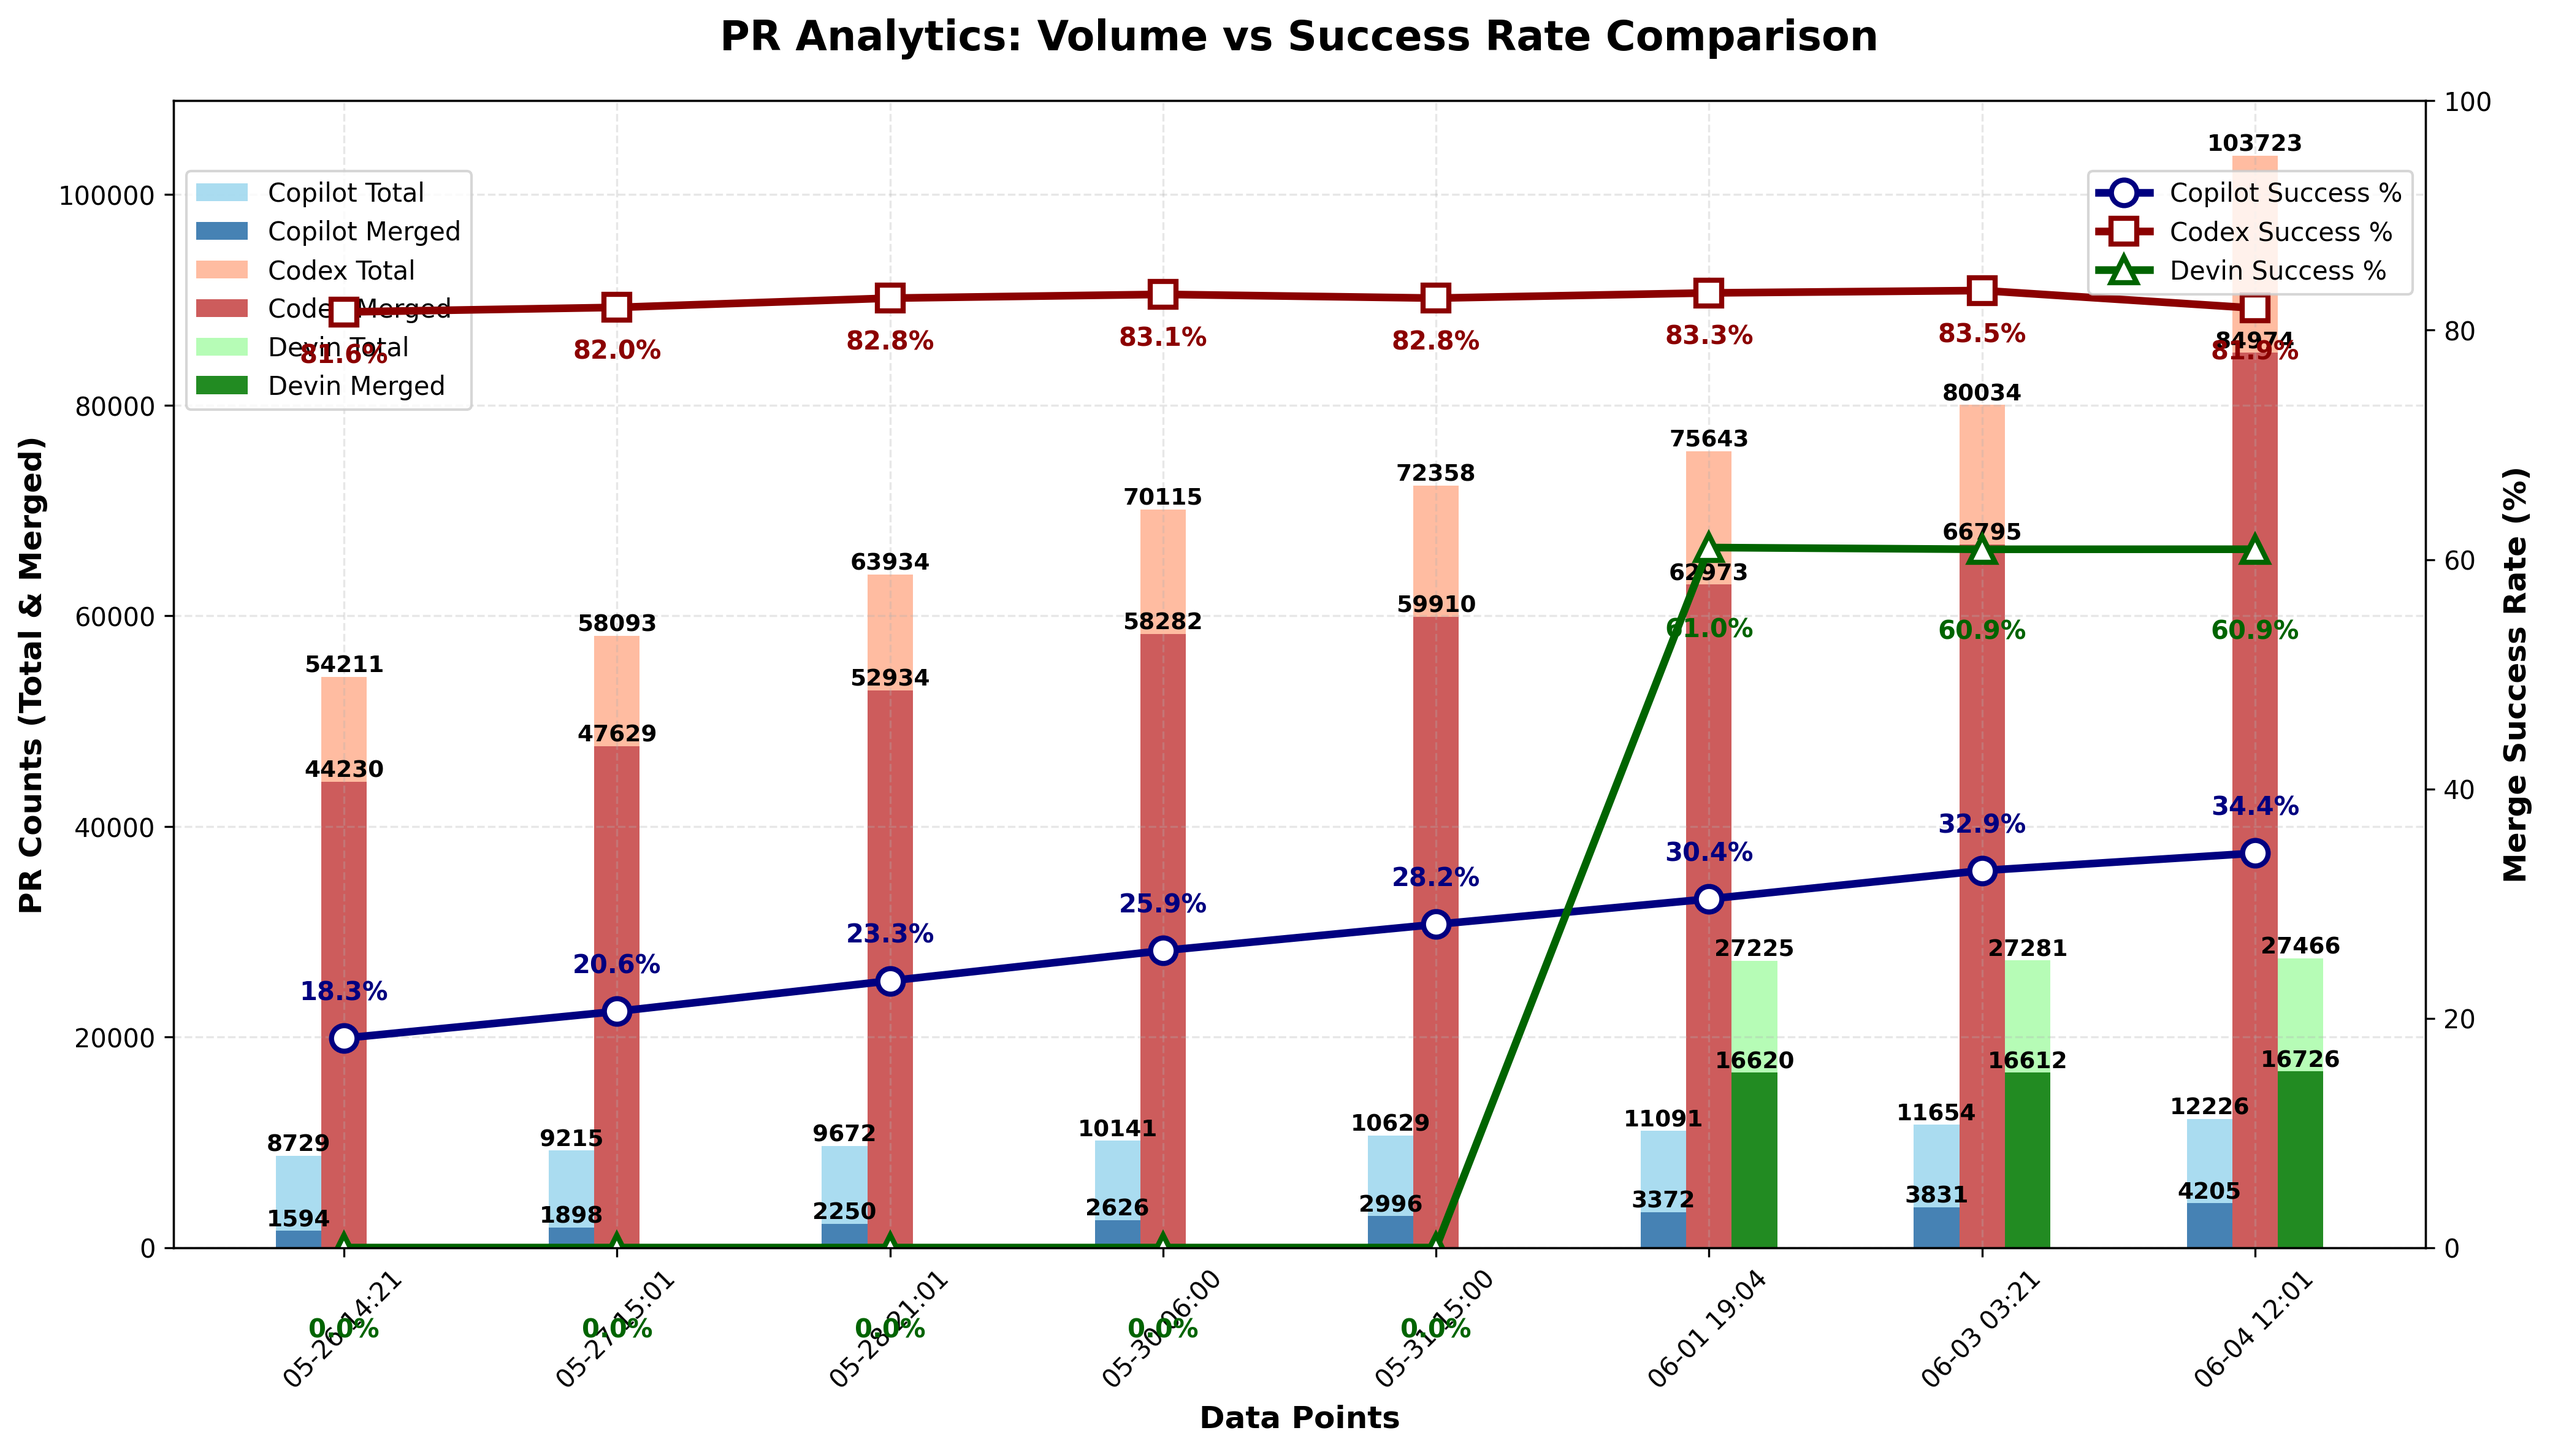
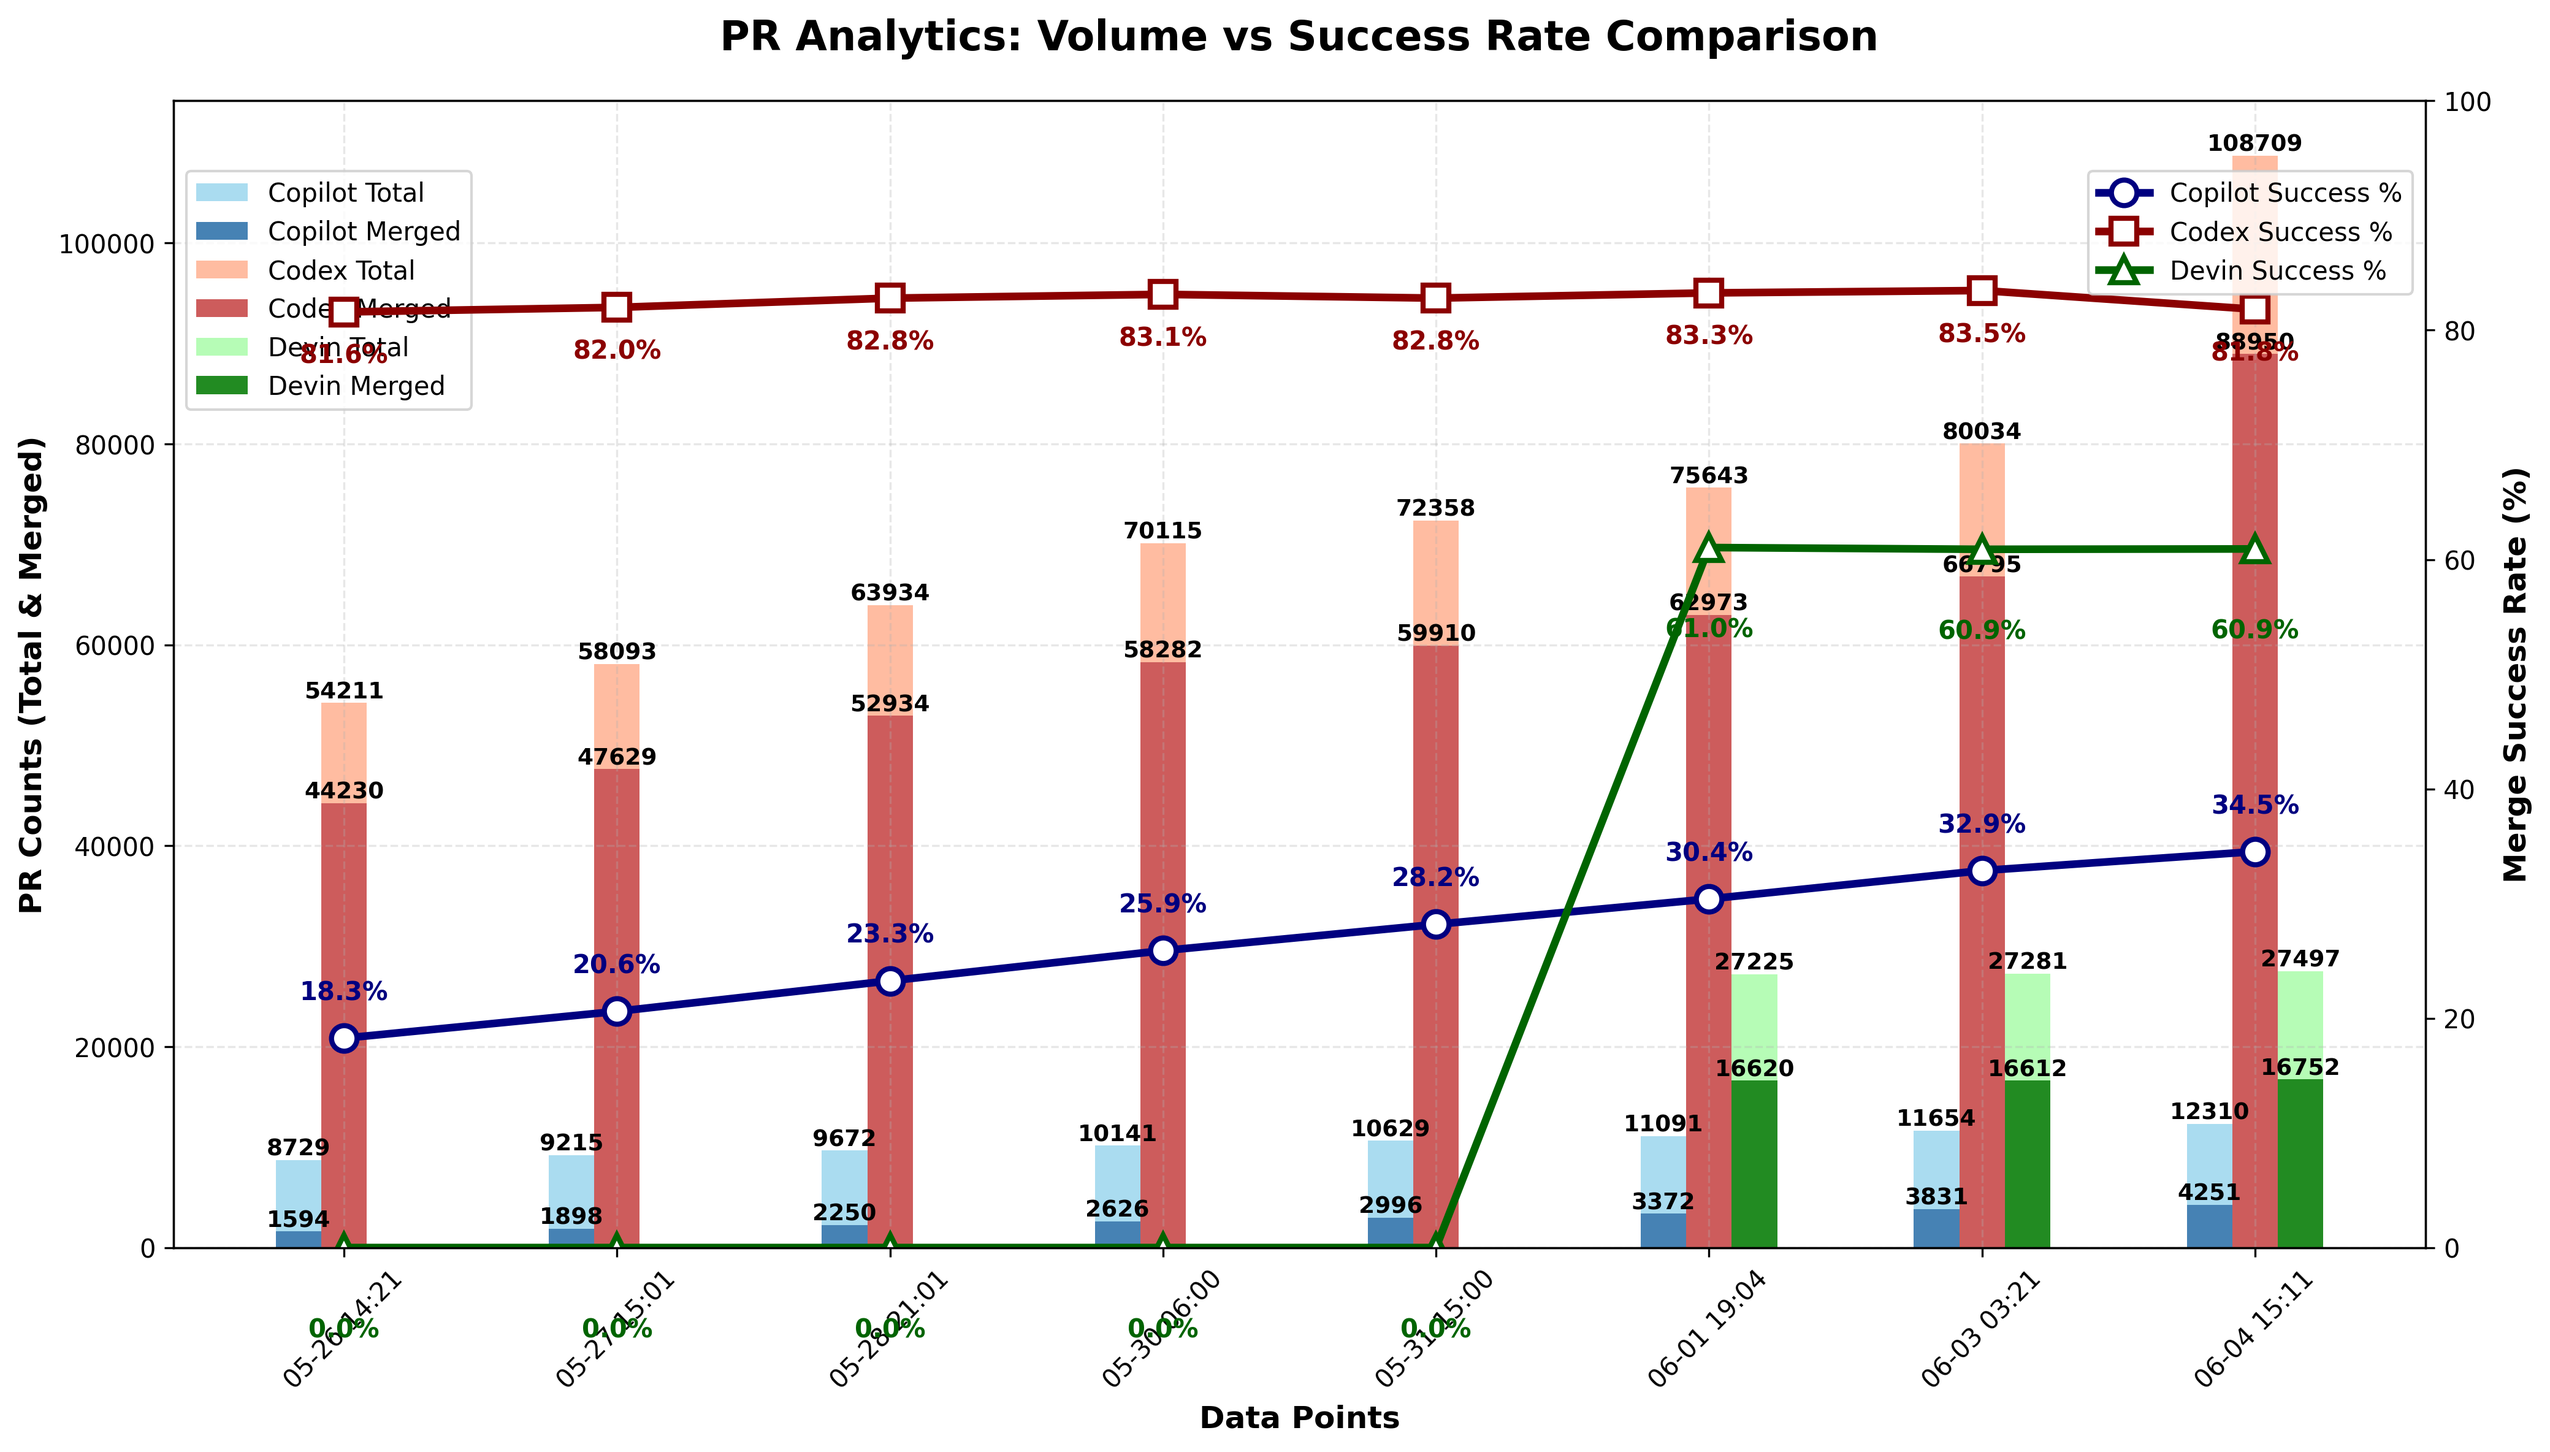
chore: update PR‑approval chart

diff --git a/docs/index.html b/docs/index.html
@@ -46,22 +46,22 @@
                 <tbody>
                     <tr>
                         <td>Copilot</td>
-                        <td>12,226</td>
-                        <td>4,205</td>
-                        <td>34.39%</td>
+                        <td>12,310</td>
+                        <td>4,251</td>
+                        <td>34.53%</td>
                     </tr>
                     <tr>
                         <td>Codex</td>
-                        <td>103,723</td>
-                        <td>84,974</td>
-                        <td>81.92%</td>
+                        <td>108,709</td>
+                        <td>88,950</td>
+                        <td>81.82%</td>
                     </tr>
                 </tbody>
             </table>
         </section>
 
         <footer>
-            <p>Last updated: <span id="last-updated">June 04, 2025 12:01 UTC</span></p>
+            <p>Last updated: <span id="last-updated">June 04, 2025 15:11 UTC</span></p>
             <p><a href="https://github.com/aavetis/ai-pr-watcher">View on GitHub</a></p>
         </footer>
     </div>

diff --git a/README.md b/README.md
@@ -21,6 +21,6 @@ Explore the GitHub search queries used:
 
 | Project | Total PRs | Merged PRs | Merge Rate |
 | ------- | --------- | ---------- | ---------- |
-| Copilot | 12,226 | 4,205 | 34.39% |
-| Codex   | 103,723 | 84,974 | 81.92% |
-| Devin   | 27,466 | 16,726 | 60.90% |
+| Copilot | 12,310 | 4,251 | 34.53% |
+| Codex   | 108,709 | 88,950 | 81.82% |
+| Devin   | 27,497 | 16,752 | 60.92% |
